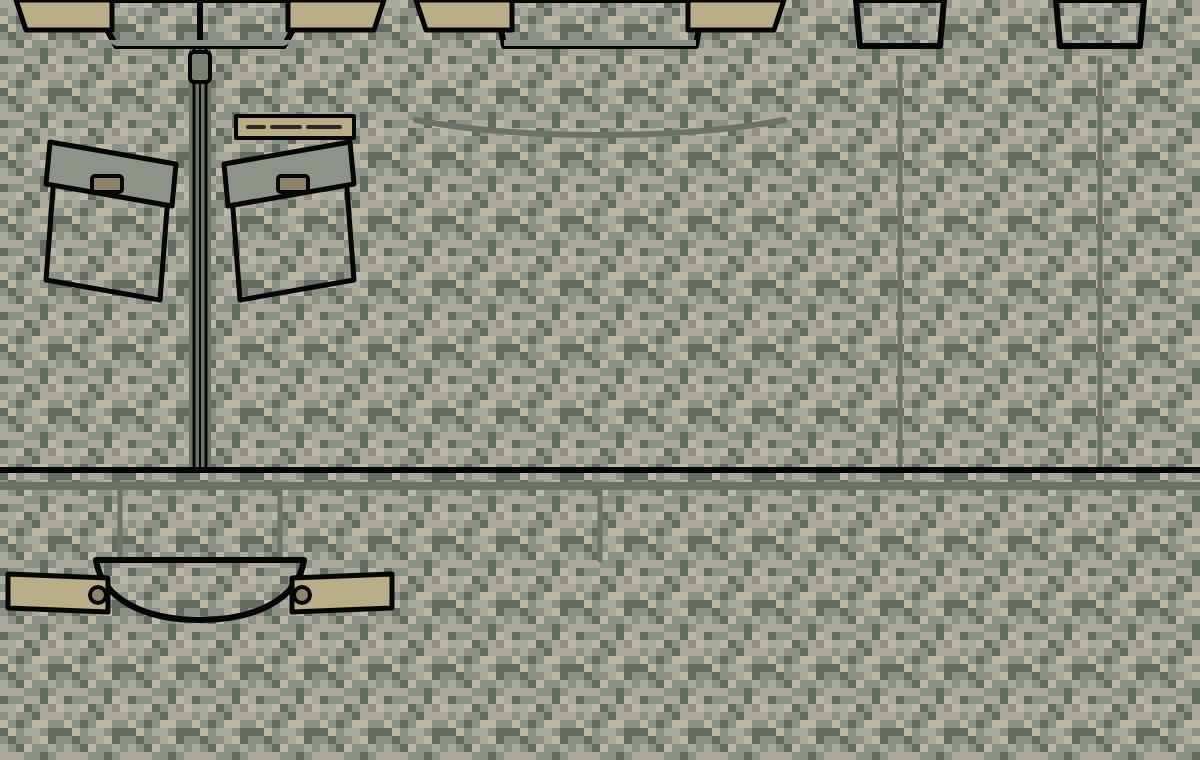
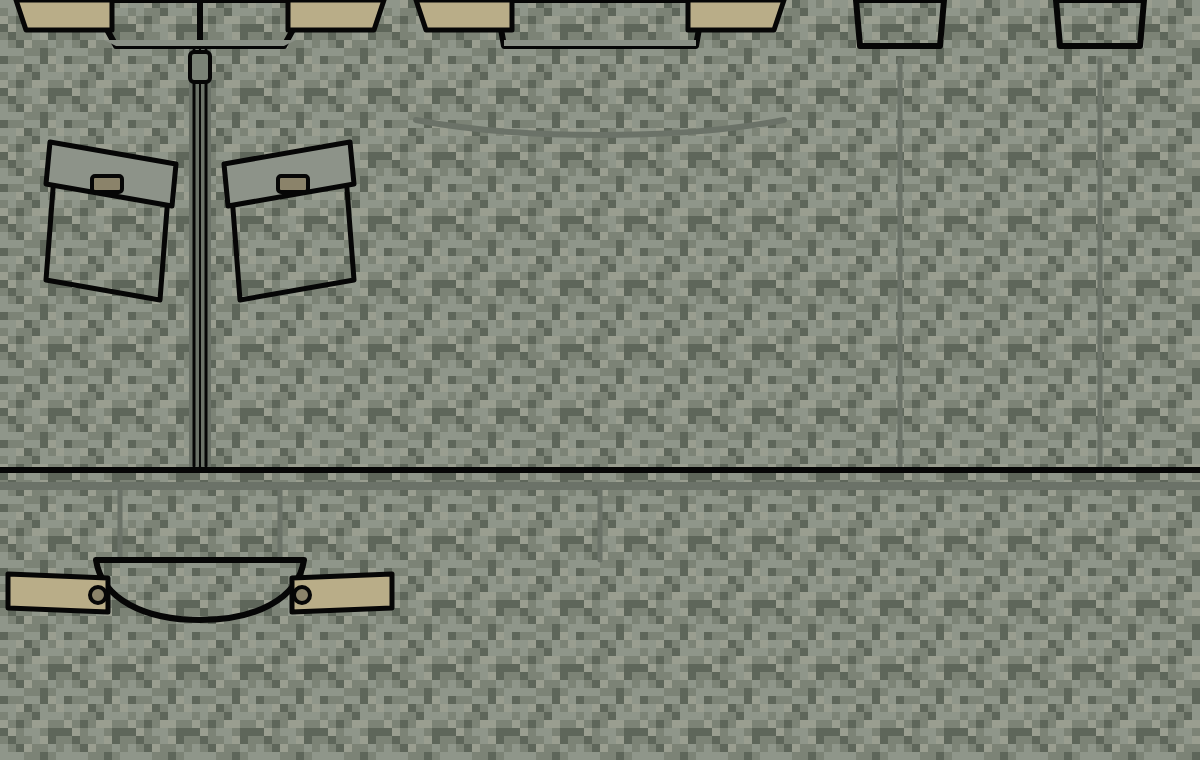
Troll Forces TROLLS #2531: the uniform the NFT's grey-green (-nft2531d)
The jacket read as a white speckled shirt over flat grey trousers (user:
the outfit looked messed up): the camo's four greys are darker and closer
together, the trousers wear the camo's own grey-green flat (the farmer leg
pieces have no UVs, so a tile came out one colour there anyway), and the
name tape the NFT doesn't have is gone.

diff --git a/assets/games/troll-ops/characters/blocky-body.js b/assets/games/troll-ops/characters/blocky-body.js
@@ -231,10 +231,12 @@ const KITS = {
   // torso template), dark jeans, brown cowboy boots
   "clothes-sheriff-gear": { sleeves: "long", legs: "legs-farmer.glb",
     colours: { sleeve: 0xf4f4f0, cuff: 0xe2e2dc, denim: 0x2c3650, hem: 0x222a3e, boot: 0x4a2e18, sole: 0x2a1c12 } },
-  // Miltary Uniform (#2531): the farmer's pieces in digital camo (camoMaterial)
-  // to the tan combat boots; first-person forearms in the camo sleeve
+  // Miltary Uniform (#2531): the box arms in the digital camo (camoMaterial),
+  // the farmer's trousers in the camo's own grey-green (the leg pieces have
+  // no UVs for a tile: the camo there came out one flat colour), tan combat
+  // boots; first-person forearms in the camo sleeve
   "clothes-military-uniform": { sleeves: "long", legs: "legs-farmer.glb",
-    colours: { sleeve: "camo", cuff: "camo", denim: "camo", hem: "camo", boot: 0x9a8a68, collar: 0x7d6e52, sole: 0x2a2420 } },
+    colours: { sleeve: "camo", cuff: "camo", denim: 0x7c8376, hem: 0x6e7568, boot: 0x9a8a68, collar: 0x7d6e52, sole: 0x2a2420 } },
 };
 /* Hair modelled in Blender (traits.js MODELLED), worn on the relief head in
    its frame: the file and a colour per piece name. Carrot Cake Hair is the
@@ -282,12 +284,12 @@ function camoMaterial() {
     const c = document.createElement("canvas");
     c.width = c.height = 128;
     const g = c.getContext("2d");
-    g.fillStyle = "#8b9185"; g.fillRect(0, 0, 128, 128);
+    g.fillStyle = "#7c8376"; g.fillRect(0, 0, 128, 128);
     // (x, y, w, h) in the tile's 8-px cells, two tiles across
     const CELLS = {
-      "#aaa99b": [[0, 0, 2, 1], [1, 1, 1, 1], [5, 0, 1, 2], [6, 1, 2, 1], [3, 3, 2, 1], [4, 4, 1, 1], [0, 5, 1, 2], [1, 6, 2, 1], [6, 5, 1, 1], [7, 6, 1, 2], [3, 7, 2, 1]],
-      "#646c62": [[3, 0, 1, 1], [2, 2, 1, 1], [7, 3, 1, 1], [6, 3, 1, 2], [0, 3, 1, 1], [5, 6, 1, 1], [2, 5, 1, 1], [1, 4, 1, 1], [4, 1, 1, 1], [5, 7, 1, 1], [0, 7, 1, 1]],
-      "#bbb8a7": [[2, 0, 1, 1], [4, 2, 2, 1], [0, 2, 1, 1], [7, 0, 1, 1], [3, 5, 1, 1], [6, 7, 1, 1], [1, 3, 1, 1], [5, 4, 1, 1]],
+      "#8f968a": [[0, 0, 2, 1], [1, 1, 1, 1], [5, 0, 1, 2], [6, 1, 2, 1], [3, 3, 2, 1], [4, 4, 1, 1], [0, 5, 1, 2], [1, 6, 2, 1], [6, 5, 1, 1], [7, 6, 1, 2], [3, 7, 2, 1]],
+      "#5e665a": [[3, 0, 1, 1], [2, 2, 1, 1], [7, 3, 1, 1], [6, 3, 1, 2], [0, 3, 1, 1], [5, 6, 1, 1], [2, 5, 1, 1], [1, 4, 1, 1], [4, 1, 1, 1], [5, 7, 1, 1], [0, 7, 1, 1]],
+      "#9a9e90": [[2, 0, 1, 1], [4, 2, 2, 1], [0, 2, 1, 1], [7, 0, 1, 1], [3, 5, 1, 1], [6, 7, 1, 1], [1, 3, 1, 1], [5, 4, 1, 1]],
     };
     for (const [col, cells] of Object.entries(CELLS)) {
       g.fillStyle = col;

diff --git a/assets/games/troll-ops/HANDOFF.md b/assets/games/troll-ops/HANDOFF.md
@@ -867,4 +867,4 @@ Map rules:
 - **2026-10-31** (-nft33) TROLLS #33's body goes to BradTheTroll's account (characters/cosmetics.js BODIES holder "bradthetroll", was the never-made "bradz_"). Checked headless: BradTheTroll and troll_runner may wear it, nobody else.
 - **2026-10-31** (-nfh1, -nfh2) Body lists (cosmetics.js panel, menu-bo2.js Locker > Body) show only the stick and the TROLLS bodies you hold; nobody sees another holder's body, greyed or not; troll_runner sees all. Checked headless as signed-out, a stranger, BradTheTroll, big_elva001, troll_runner.
 - **2026-10-31** (-nfh5, -nfh6) NFT access: troll_runner hands out the TROLLS bodies in the game (Locker > Body > NFT access: pick a body, type a username, Give / Take back; menu/nft-access.js). Holders live on the server (assets/supabase/troll_forces_nft_holders.sql, set function owner-only, seeded with today's holders; characters/nft-holders.js), cosmetics.js BODIES names are the fallback. Checked headless against a fake server: give, unknown name, take back, holder/non-holder/owner lists, no-server fallback, phone layout. The SQL must be run once in Supabase before it works live.
-- **2026-10-31** (-nft2531) TROLLS #2531 body, blocky (Horny, HellYa, Viper Sol, Miltary Uniform; holder troll_runner till named): horns modelled (models/build_blocky_horns.blender.py -> blocky/horns.glb, blocky-body.js HAIRS, no hairline without a `hair` colour), the laugh painted into the face (tools/troll-ops-hellya-art.mjs opens the art's own grin: its teeth flood-filled, the union the mouth; face-hellya.svg, character.js FACE_ART hellya), the visor a front card (eyes-viper-sol.svg), the uniform a block template in digital camo with the sleeves and trousers in the same tile (KITS "camo", camoMaterial; PATTERNS alongside the plaid), ui/trolls-2531.png, refs/trolls-2531.png. Tests: blocky-ingame 2531 (the two FAILs, stickHidden and the thigh capsule, fail the same on #1272 on main), nft-face, import-check --load; head and body sheets vs the ref.
+- **2026-10-31** (-nft2531) TROLLS #2531 body, blocky (Horny, HellYa, Viper Sol, Miltary Uniform; holder troll_runner till named): horns modelled (models/build_blocky_horns.blender.py -> blocky/horns.glb, blocky-body.js HAIRS, no hairline without a `hair` colour), the laugh painted into the face (tools/troll-ops-hellya-art.mjs opens the art's own grin: its teeth flood-filled, the union the mouth; face-hellya.svg, character.js FACE_ART hellya), the visor a front card (eyes-viper-sol.svg), the uniform a block template in digital camo, the box arms in the same tile (KITS "camo", camoMaterial; PATTERNS alongside the plaid), the trousers its flat grey-green (the leg pieces have no UVs for a tile), ui/trolls-2531.png, refs/trolls-2531.png. Tests: blocky-ingame 2531 (the two FAILs, stickHidden and the thigh capsule, fail the same on #1272 on main), nft-face, import-check --load; head and body sheets vs the ref.
